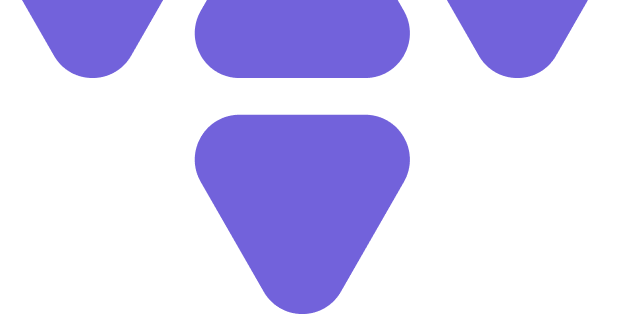
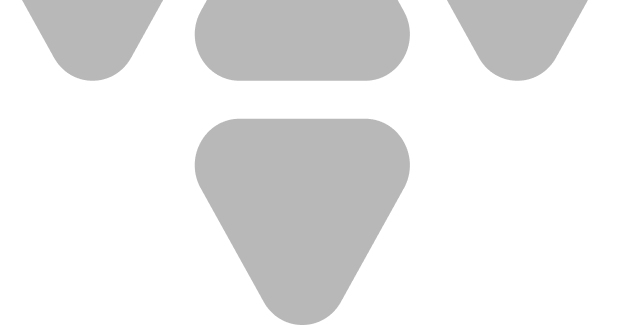
Start to change some style

diff --git a/src/app/pages/shared-components/footer/footer.component.html b/src/app/pages/shared-components/footer/footer.component.html
@@ -6,11 +6,11 @@
           <div class="logo">
             <img src="assets/logo.png" alt="">
           </div>
-          <div class="mt-5">
+          <!-- <div class="mt-5">
             Lorem ipsum dolor sit amet consectetur adipisicing elit. Dicta voluptas fugit id odit, nam a consequatur esse distinctio eaque quae rerum modi? Voluptate saepe sint inventore libero corporis ut modi.
-          </div>
+          </div> -->
   
-          <div class="mt-7">
+          <!-- <div class="mt-7">
             <div class="sub title">
               Follow Us
             </div>
@@ -21,12 +21,12 @@
               <i class="fab fa-linkedin  ml-2 fa-2x"></i>
               <i class="fab fa-instagram  ml-2 fa-2x"></i>
             </div>
-          </div>
+          </div> -->
         </div>
   
         <div class="categories ml-2">
   
-          <div class="cont-cat">
+          <!-- <div class="cont-cat">
             <div class="titlecat mb-5">Events Categories</div>
             <div class="flex">
               <div class="cat-name">
@@ -60,7 +60,7 @@
                 some
               </div>
             </div>
-          </div>
+          </div> -->
   
   
         </div>
@@ -68,7 +68,7 @@
   
   
         <div class="categories ml-2">
-          <div class="cont-cat">
+          <!-- <div class="cont-cat">
             <div class="titlecat mb-5">Events Categories</div>
             <div class="">
               <div> Lorem, ipsum.</div>
@@ -78,28 +78,23 @@
               <div> Lorem, ipsum.</div>
               <div> Lorem, ipsum.</div>
             </div>
-          </div>
+          </div> -->
         </div>
   
         <div class="location ml-2">
-          <div class="titlecat mb-5">Our store</div>
-          <div class="location-map">
+          <div class="titlecat mb-5">Contacto</div>
+          <!-- <div class="location-map">
             Lorem ipsum dolor sit amet consectetur, adipisicing elit. Fugit laudantium facilis similique vero
-          </div>
+          </div> -->
           <div class="mt-5">
             <div class="flex">
-              <span><i class="fas fa-map-marker-alt fa-lg mr-3"></i></span>832 Thompson Drive, San Fransisco
-              CA 94107, United States
+              <span><i class="fas fa-map-marker-alt fa-lg mr-3"></i></span>
+              Calle 22c # 31-01
             </div>
           </div>
           <div class="mt-5">
             <div class="flex">
-              <span><i class="fas fa-phone fa-lg mr-3"></i></span>+123 345123 556
-            </div>
-          </div>
-          <div class="mt-5">
-            <div class="flex">
-              <span><i class="fas fa-envelope fa-lg mr-3"></i></span>support@bookoe.id
+              <span><i class="fas fa-envelope fa-lg mr-3"></i></span>plataforma@mci12.com
             </div>
           </div>
         </div>

diff --git a/src/app/modules/home/components/event-card/event-card.component.html b/src/app/modules/home/components/event-card/event-card.component.html
@@ -56,11 +56,11 @@
                 <div class="written-content">
                     <div>
                         <span style="color:gray;">Publicado por</span>
-                        <p>Eventos G12</p>
+                        <p style="color:gray;">Eventos G12</p>
                     </div>
                     <div>
                         <span style="color:gray;">Year</span>
-                        <p>2021</p>
+                        <p style="color:gray;">2021</p>
                     </div>
                 </div>
                 <div class="cont-buy">

diff --git a/src/app/modules/home/components/event-card/event-card.component.css b/src/app/modules/home/components/event-card/event-card.component.css
@@ -76,6 +76,9 @@
 .event-info>h3 {
   font-weight: bold;
   font-size: large;
+  overflow: hidden !important;
+  text-overflow: ellipsis !important;
+  width: 150px !important;
 }
 
 .event-info-list {
@@ -93,7 +96,7 @@
   font-size: small;
   font-weight: bold;
   text-transform: uppercase;
-  color: var(--purple);
+  color: rgb(161, 161, 161);
 }
 
 .event-desc-list {
@@ -115,7 +118,7 @@
 .price-list {
   font-weight: bold;
   font-size: x-large;
-  color: var(--darkpurple);
+  color: var(--purple);
 }
 
 .cont-price {

diff --git a/src/app/modules/home/home.component.html b/src/app/modules/home/home.component.html
@@ -58,7 +58,7 @@
                     </ng-container>
                 </div>
 
-                <div class="paginator-container">
+                <!-- <div class="paginator-container">
                     <div class="info-data">
                         Pagina 1 de 4
                     </div>
@@ -74,7 +74,7 @@
                             </ul>
                         </nav>
                     </div>
-                </div>
+                </div> -->
             </div>
 
 

diff --git a/src/app/pages/shared-components/features/features.component.css b/src/app/pages/shared-components/features/features.component.css
@@ -2,7 +2,7 @@
     width: 100%;
     padding: 50px;
     margin-bottom: 20px;
-    background-color: #F0EEFF;
+    background-color: #e7e7ee;
     display: flex;
     flex-wrap: wrap;
     justify-content: space-around;
@@ -29,7 +29,7 @@
   .feature-desc>h6 {
     font-size: medium;
     font-weight: bold;
-    color: var(--darkpurple);
+    color: var(--purple);
   }
   
   .feature-desc>p {

diff --git a/src/app/modules/home/home.component.css b/src/app/modules/home/home.component.css
@@ -12,7 +12,7 @@
 }
 
 .breadcum-element>span {
-  color: #6C5DD3;
+  color: var(--purple);
 }
 
 
@@ -34,7 +34,7 @@
 }
 
 .left-side>h3 {
-  color: var(--darkpurple);
+  color: var(--purple);
   font-weight: bold;
   font-size: 25px;
 }
@@ -118,7 +118,7 @@
 }
 
 .title-item>h3 {
-  color: var(--darkpurple);
+  color: var(--purple);
   font-weight: bold;
   font-size: 25px;
 }

diff --git a/src/environments/environment.prod.ts b/src/environments/environment.prod.ts
@@ -3,6 +3,6 @@ export const environment = {
   // apiUrlDonations: "https://gateway.mcidonaciones.com:1100/",
   // apiUrlConexion12: "https://plataforma.mci12.com:444/",
   apiUrlG12Connect: "https://api.g12connect.com/api/v2/",
-  urlResponse: "https://mci.eventosg12.com/payment/transaction"
+  urlResponse: "https://eventosg12.com/payment/transaction"
 
 };

diff --git a/src/app/pages/shared-components/subscription/subscription.component.css b/src/app/pages/shared-components/subscription/subscription.component.css
@@ -1,7 +1,7 @@
 .general-cont {
   height: 353.67px;
   width: 100%;
-  background: #6C5DD3;
+  background: #bfbfc0;
   border-radius: 32px;
   position: relative;
 }
@@ -20,8 +20,8 @@
 }
 
 .input-search {
-  background: #7C6DE3;
-  border: 1px solid #7C6DE3;
+  background: #9f9ea3;
+  border: 1px solid #87868f;
   color: white;
 }
 

diff --git a/src/styles.css b/src/styles.css
@@ -9,8 +9,9 @@
 }
 
 :root {
-    --purple: #6C5DD3;
-    --darkpurple: #11142D;
+    /* --purple: #6C5DD3; */
+    --purple: #11142D;
+    --darkpurple: whitesmoke;
 }
 
 html, body {

diff --git a/src/app/modules/home/components/events-slider/events-slider.component.css b/src/app/modules/home/components/events-slider/events-slider.component.css
@@ -4,7 +4,7 @@
     width: 100%;
     display: flex;
     border-radius: 20px;
-    background-color: #F2F0FE;
+    background-color: #bfbfc0;
 }
 
 .slider-left {

diff --git a/src/app/pages/shared-components/footer/footer.component.css b/src/app/pages/shared-components/footer/footer.component.css
@@ -60,7 +60,7 @@
   }
   
   span {
-    color: #6C5DD3;
+    color: #474747;
   }
   
   @media (max-width: 600px) {
